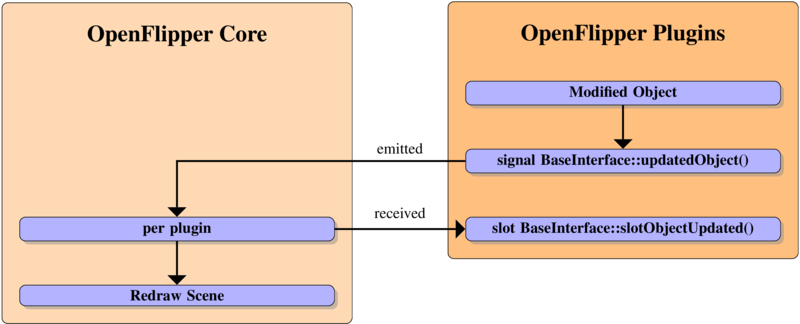
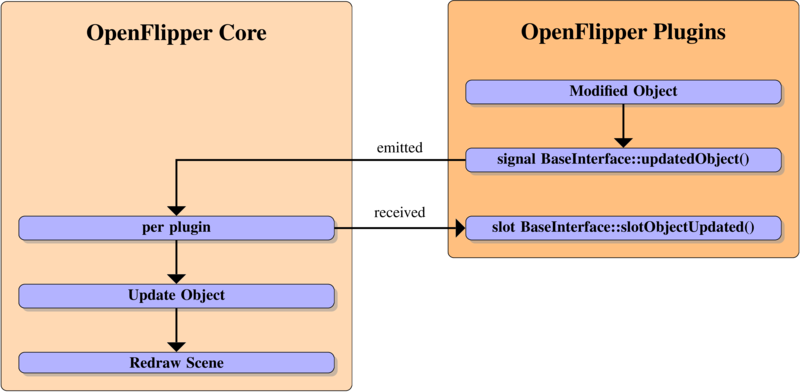
Improved doc for the update flow

diff --git a/OpenFlipper/Documentation/DeveloperHelpSources/tikz/ObjectUpdateNotification.tex b/OpenFlipper/Documentation/DeveloperHelpSources/tikz/ObjectUpdateNotification.tex
@@ -36,7 +36,12 @@ text centered, text=black, text width=7cm]
 \node (AuxNode) [above=of perPlugin]{};
 \node (Core) [above=of perPlugin ,yshift=2.8cm] {\textbf{\huge{OpenFlipper Core}} };
 
-\node (redraw) [abstract, rectangle, below= of perPlugin ]
+\node (updateObject) [abstract, rectangle, below= of perPlugin ]
+{
+\textbf{Update Object}
+};
+
+\node (redraw) [abstract, rectangle, below= of updateObject ]
 {
 \textbf{Redraw Scene}
 };
@@ -46,16 +51,9 @@ text centered, text=black, text width=7cm]
 
 \draw[flow] (ModifiedObject.south) -- ++(0,0) -| (signalUpdatedObject.north);
 \draw[flow] (signalUpdatedObject.west) -- ++(0,0) -| (perPlugin.north);
-\draw[flow] (perPlugin.south) -- ++(0,0) -| (redraw.north);
+\draw[flow] (perPlugin.south) -- ++(0,0) -| (updateObject.north);
+\draw[flow] (updateObject.south) -- ++(0,0) -| (redraw.north);
 \draw[flow] (perPlugin.east)  --  ++(0,0) |-  (slotObjectUpdated.west);
-%\draw[flow] (CreateGUI.south) -- ++(0,0) -| (Logging.north);
-%\draw[flow] (Logging.south) -- ++(0,0) -| (LoadPlugins.north);
-%\draw[flow] (LoadPlugins.south) -- +(0,0) |- (initializePlugin.west);
-%\draw[flow] (LoadPlugins.south) -- ++(0,0) -| (perPlugin1.north);
-%\draw[flow] (perPlugin1.south) -- ++(0,0) -| (perPlugin2.north);
-%\draw[flow] (perPlugin1.east) -- ++(0,0) |- (pluginsInitialized.west);
-%\draw[flow] (perPlugin2.south) -- ++(0,0) -| (finalizeGui.north);
-%\draw[flow] (perPlugin2.east) -- ++(0,0) |- (loadIni.west);
 
 \begin{pgfonlayer}{background}
 \node[CoreGroup,fit=(Core) (redraw) ] (Core) {};
